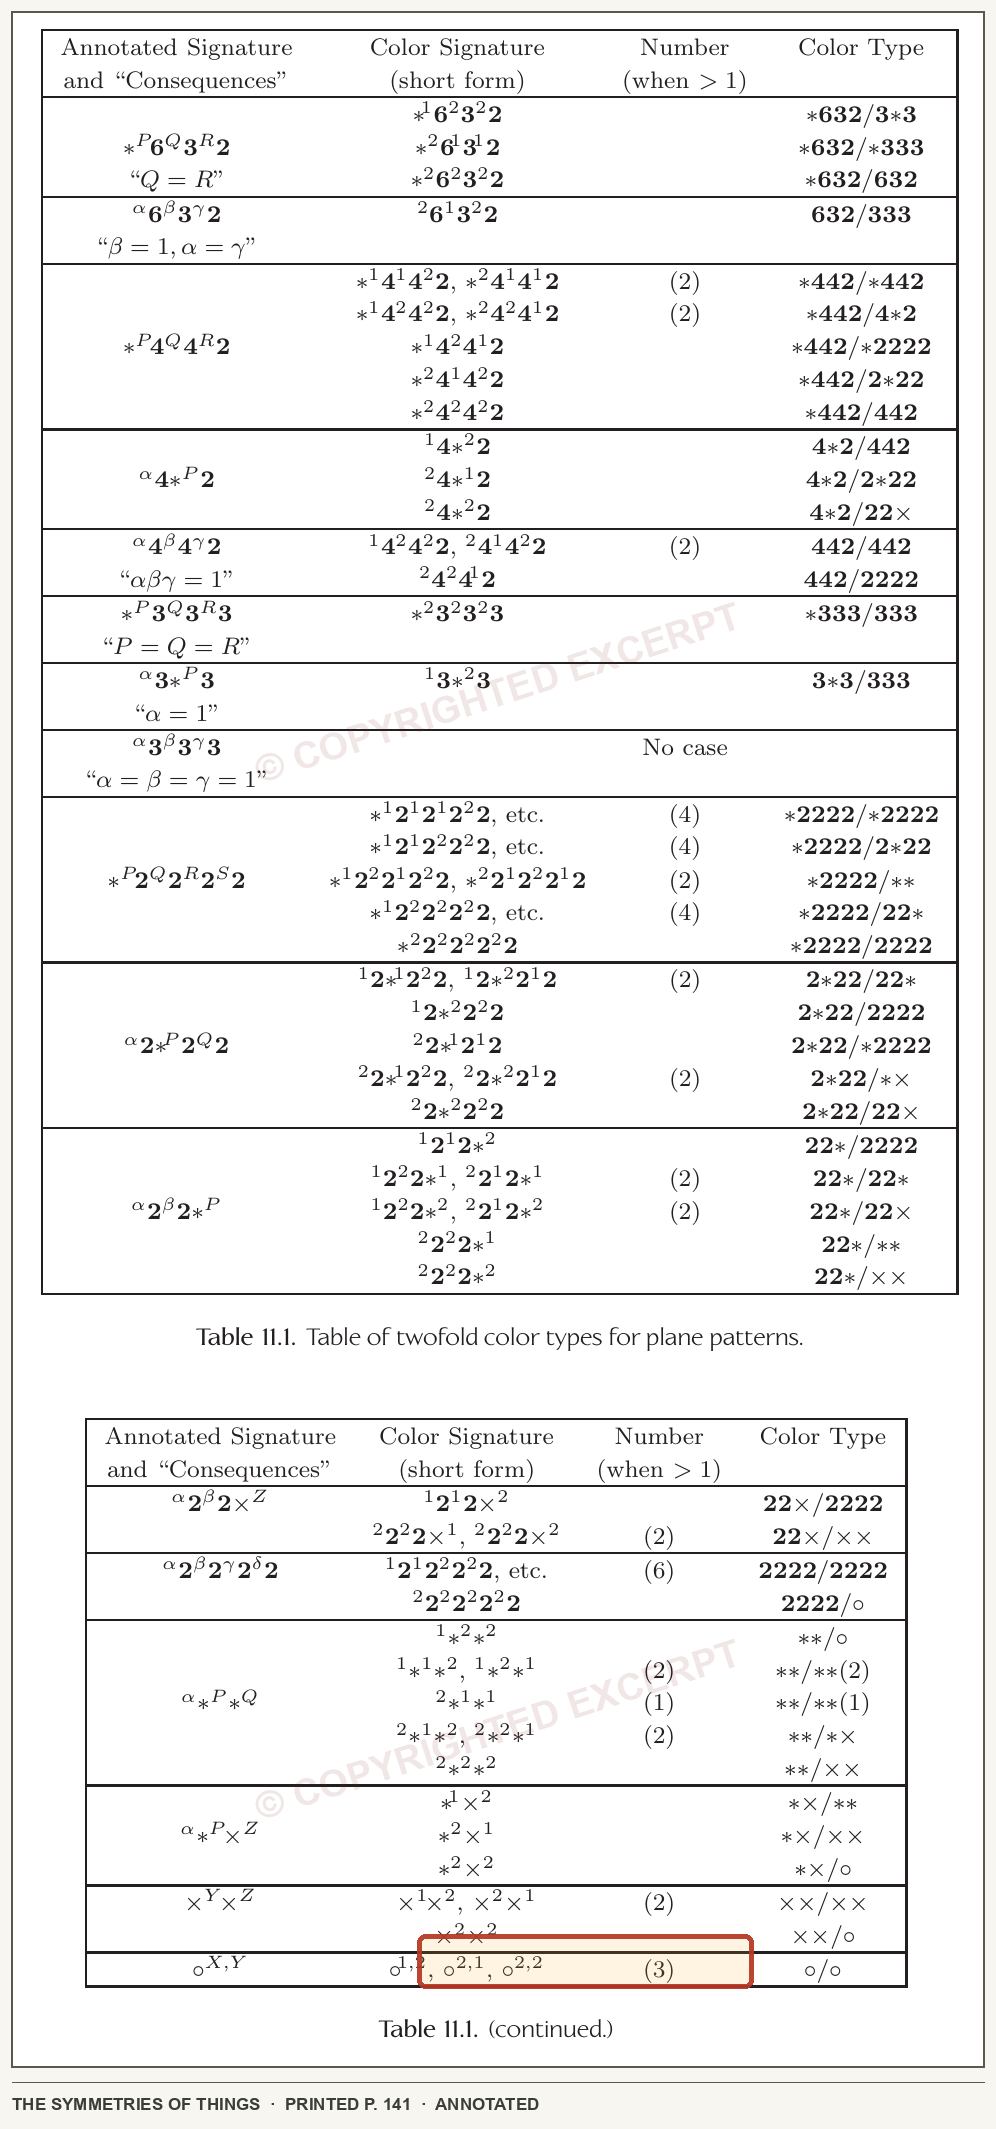
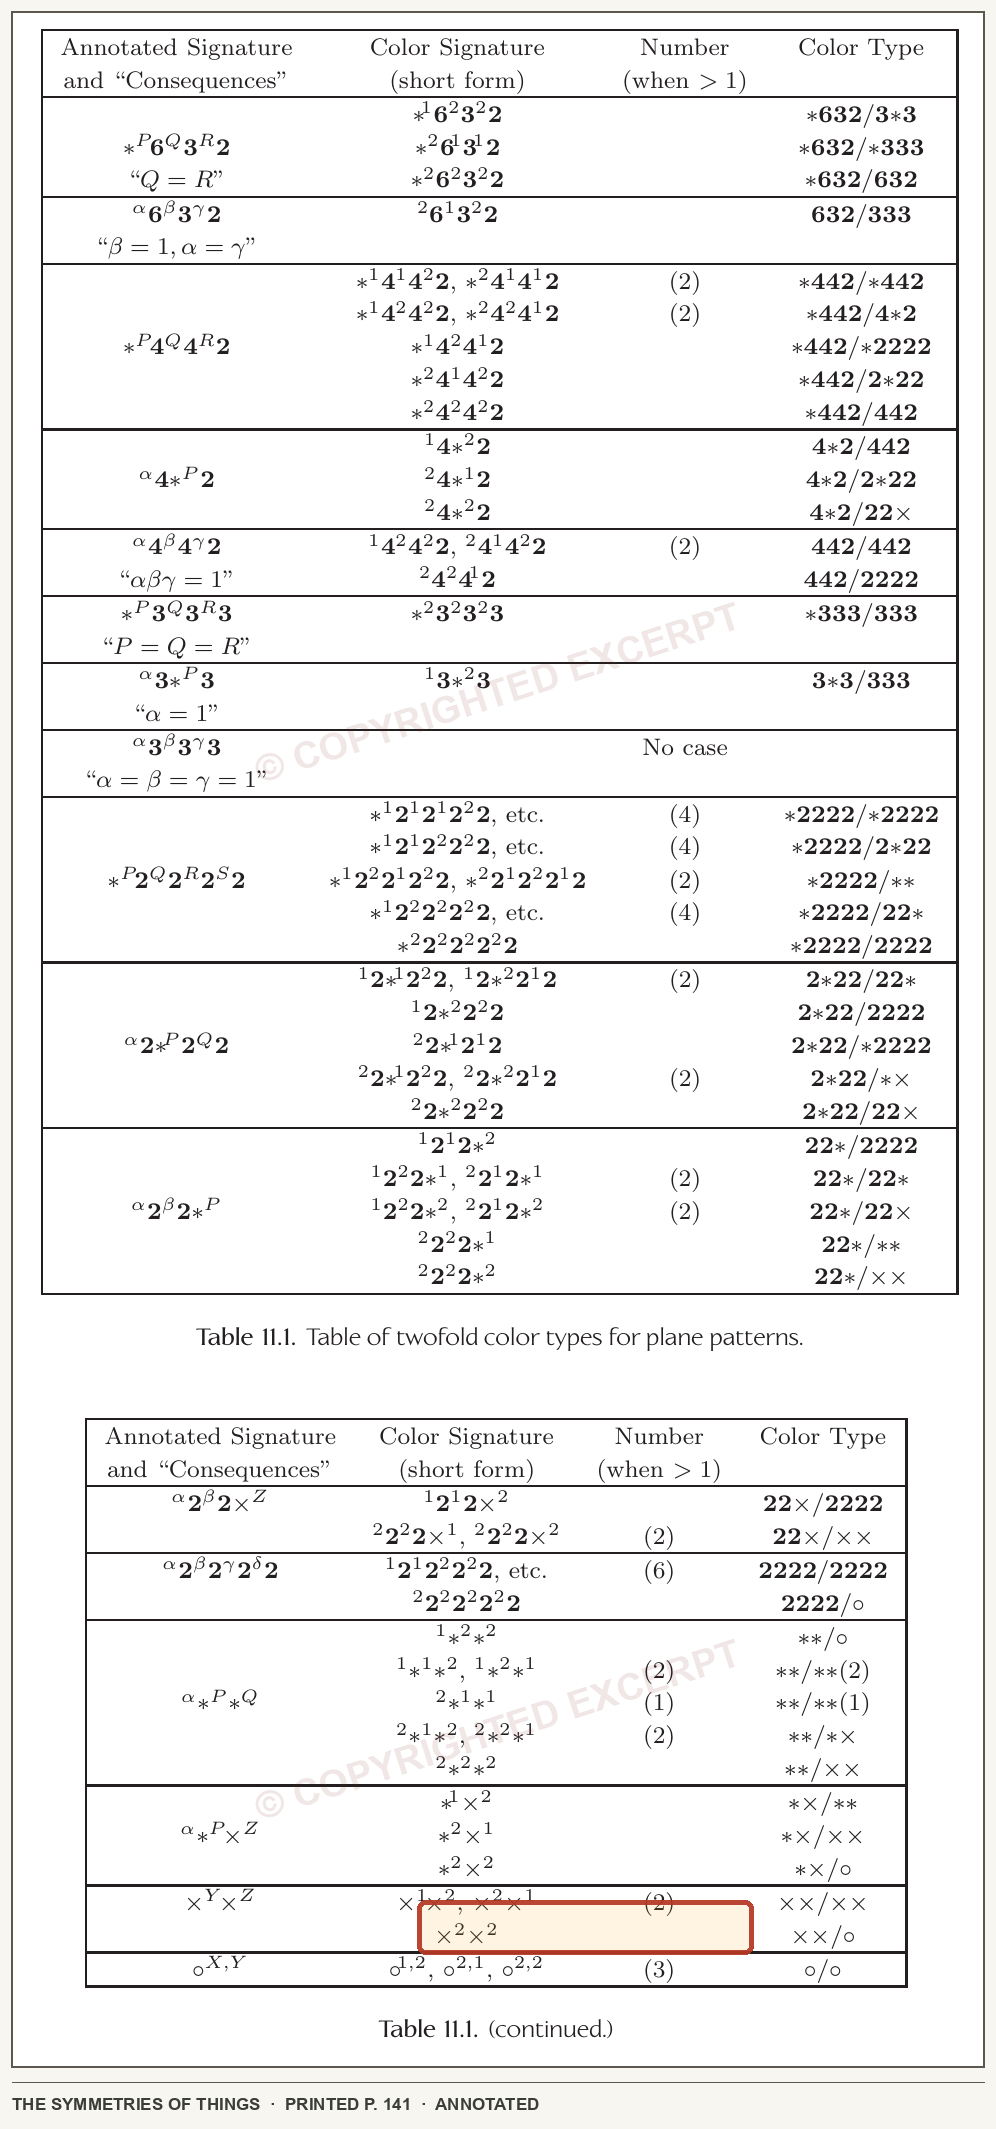
Align pg short-signature crop

Changed region(s): [[0.4046, 0.868, 0.7781, 0.961]]

diff --git a/color-pattern-catalog.html b/color-pattern-catalog.html
@@ -8,8 +8,8 @@
   <title>Periodic colour-pattern catalog</title>
   <link rel="icon" href="favicon.svg" type="image/svg+xml">
   <link rel="stylesheet" href="site-controls-v2.css">
-  <link rel="stylesheet" href="color-pattern-catalog.css?v=compact-ghk">
-  <script src="color-pattern-catalog.js?v=compact-ghk" defer></script>
+  <link rel="stylesheet" href="color-pattern-catalog.css?v=pg-short-row-fix">
+  <script src="color-pattern-catalog.js?v=pg-short-row-fix" defer></script>
 </head>
 <body>
   <a class="skip-link" href="#pattern-atlas">Skip to pattern catalog</a>

diff --git a/color-pattern-catalog.js b/color-pattern-catalog.js
@@ -88,7 +88,7 @@
     if (excerpt.source_url) parameters.set("source", excerpt.source_url);
     const link = document.createElement("a");
     link.className = "book-evidence-link";
-    link.href = `book-excerpt.html?v=pattern-sources&${parameters.toString()}`;
+    link.href = `book-excerpt.html?v=pg-short-row-fix&${parameters.toString()}`;
     link.target = "color-pattern-book-excerpt";
     if (label instanceof Node) link.append(label);
     else link.textContent = label;

diff --git a/book-excerpt.js b/book-excerpt.js
@@ -54,7 +54,7 @@ if (validSource(sourceUrl)) source.href = sourceUrl;
 else source.hidden = true;
 
 if (validImagePath(imagePath)) {
-  image.src = `${imagePath}?v=whole-tables`;
+  image.src = `${imagePath}?v=pg-short-row-fix`;
 } else {
   media.dataset.state = "error";
   status.textContent = "This excerpt link is incomplete. Return to the correspondence page and open it again.";

diff --git a/book-excerpt.html b/book-excerpt.html
@@ -32,6 +32,6 @@
     <p>The outline marks the cited item.</p>
   </footer>
 
-  <script type="module" src="book-excerpt.js"></script>
+  <script type="module" src="book-excerpt.js?v=pg-short-row-fix"></script>
 </body>
 </html>

diff --git a/tests/test_color_pattern_catalog.py b/tests/test_color_pattern_catalog.py
@@ -378,6 +378,7 @@ class ColorPatternCatalogTests(unittest.TestCase):
         self.assertNotIn("layoutVariant * 7", script)
         self.assertNotIn("const paths = [", script)
         self.assertIn('link.target = "color-pattern-book-excerpt"', script)
+        self.assertIn("book-excerpt.html?v=pg-short-row-fix", script)
         self.assertIn("state.excerptWindow.location.href = excerpt.href", script)
         self.assertIn("state.excerptWindow.focus()", script)
         for label in (
@@ -458,6 +459,11 @@ class ColorPatternCatalogTests(unittest.TestCase):
         groups = self.payload["colour_groups"]
         self.assertEqual(len(SOT_TWO_ROW), 46)
         self.assertEqual(len(SOT_THREE_ROW), 23)
+        self.assertEqual(SOT_TWO_ROW["××/◦"], (141, 309.5, 18))
+        self.assertEqual(
+            specs["output/color-pattern-excerpts/tos-cg-pg-2-1.webp"]["highlight"],
+            (225.0, 309.5, 112.0, 18),
+        )
         blank_short = next(group for group in groups if group["chaim_notation"] == "632³//333")
         self.assertIn("leaves this short-signature cell blank", blank_short["book_excerpt"]["context"])
         corrected_pmg = next(group for group in groups if group["chaim_notation"] == "22*³//××")

diff --git a/tests/test_clockwork_coloring_correspondence.py b/tests/test_clockwork_coloring_correspondence.py
@@ -1247,7 +1247,8 @@ class ClockworkColoringCorrespondenceTests(unittest.TestCase):
         self.assertIn("window.opener.postMessage", viewer_script)
         self.assertIn('type: "clockwork:book-excerpt-ready"', viewer_script)
         self.assertIn("book-excerpts|color-pattern-excerpts", viewer_script)
-        self.assertIn("?v=whole-tables", viewer_script)
+        self.assertIn("?v=pg-short-row-fix", viewer_script)
+        self.assertIn("book-excerpt.js?v=pg-short-row-fix", viewer_page)
         self.assertIn('media.dataset.zoom = actual ? "actual" : "fit"', viewer_script)
         self.assertIn('[data-zoom="actual"]', viewer_style)
         self.assertIn('[data-zoom="fit"]', viewer_style)

diff --git a/scripts/generate_color_pattern_catalog.py b/scripts/generate_color_pattern_catalog.py
@@ -732,8 +732,8 @@ def build_html(payload: dict[str, Any]) -> str:
   <title>Periodic colour-pattern catalog</title>
   <link rel="icon" href="favicon.svg" type="image/svg+xml">
   <link rel="stylesheet" href="site-controls-v2.css">
-  <link rel="stylesheet" href="color-pattern-catalog.css?v=compact-ghk">
-  <script src="color-pattern-catalog.js?v=compact-ghk" defer></script>
+  <link rel="stylesheet" href="color-pattern-catalog.css?v=pg-short-row-fix">
+  <script src="color-pattern-catalog.js?v=pg-short-row-fix" defer></script>
 </head>
 <body>
   <a class="skip-link" href="#pattern-atlas">Skip to pattern catalog</a>

diff --git a/scripts/color_pattern_book_excerpt_specs.py b/scripts/color_pattern_book_excerpt_specs.py
@@ -73,7 +73,9 @@ SOT_TWO_ROW: dict[str, tuple[int, float, float]] = {
     "*×/××": (141, 276.5, 18),
     "*×/◦": (141, 287.5, 18),
     "××/××": (141, 298.5, 27),
-    "××/◦": (141, 320.5, 18),
+    # This is the second line of the pg block.  Its ink spans roughly
+    # y=315–324; the former y=320.5 box slipped onto the following p1 row.
+    "××/◦": (141, 309.5, 18),
     "◦/◦": (141, 331.5, 26),
 }
 
